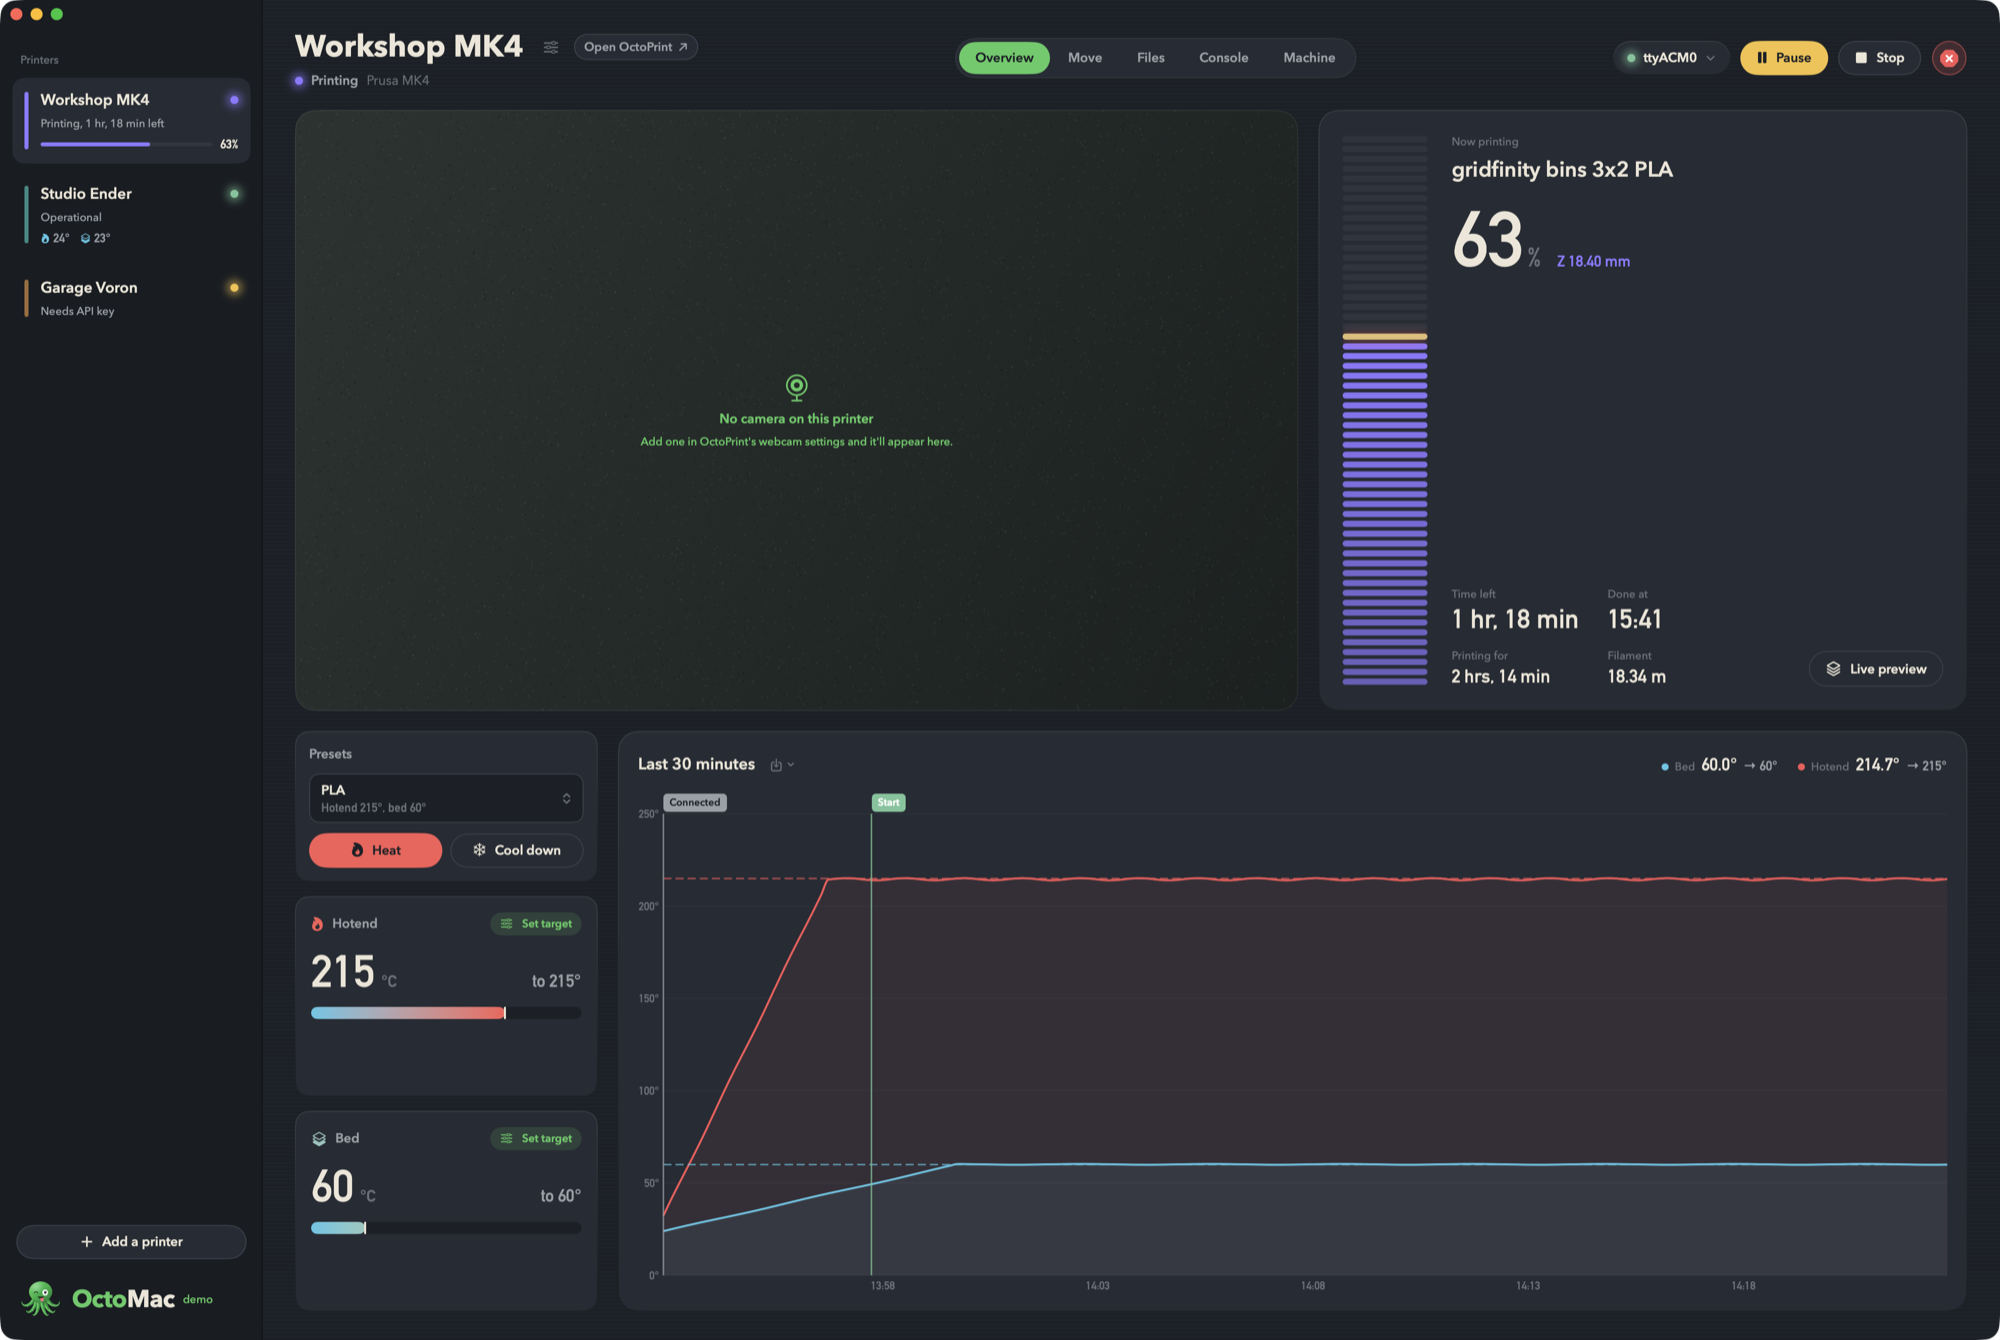
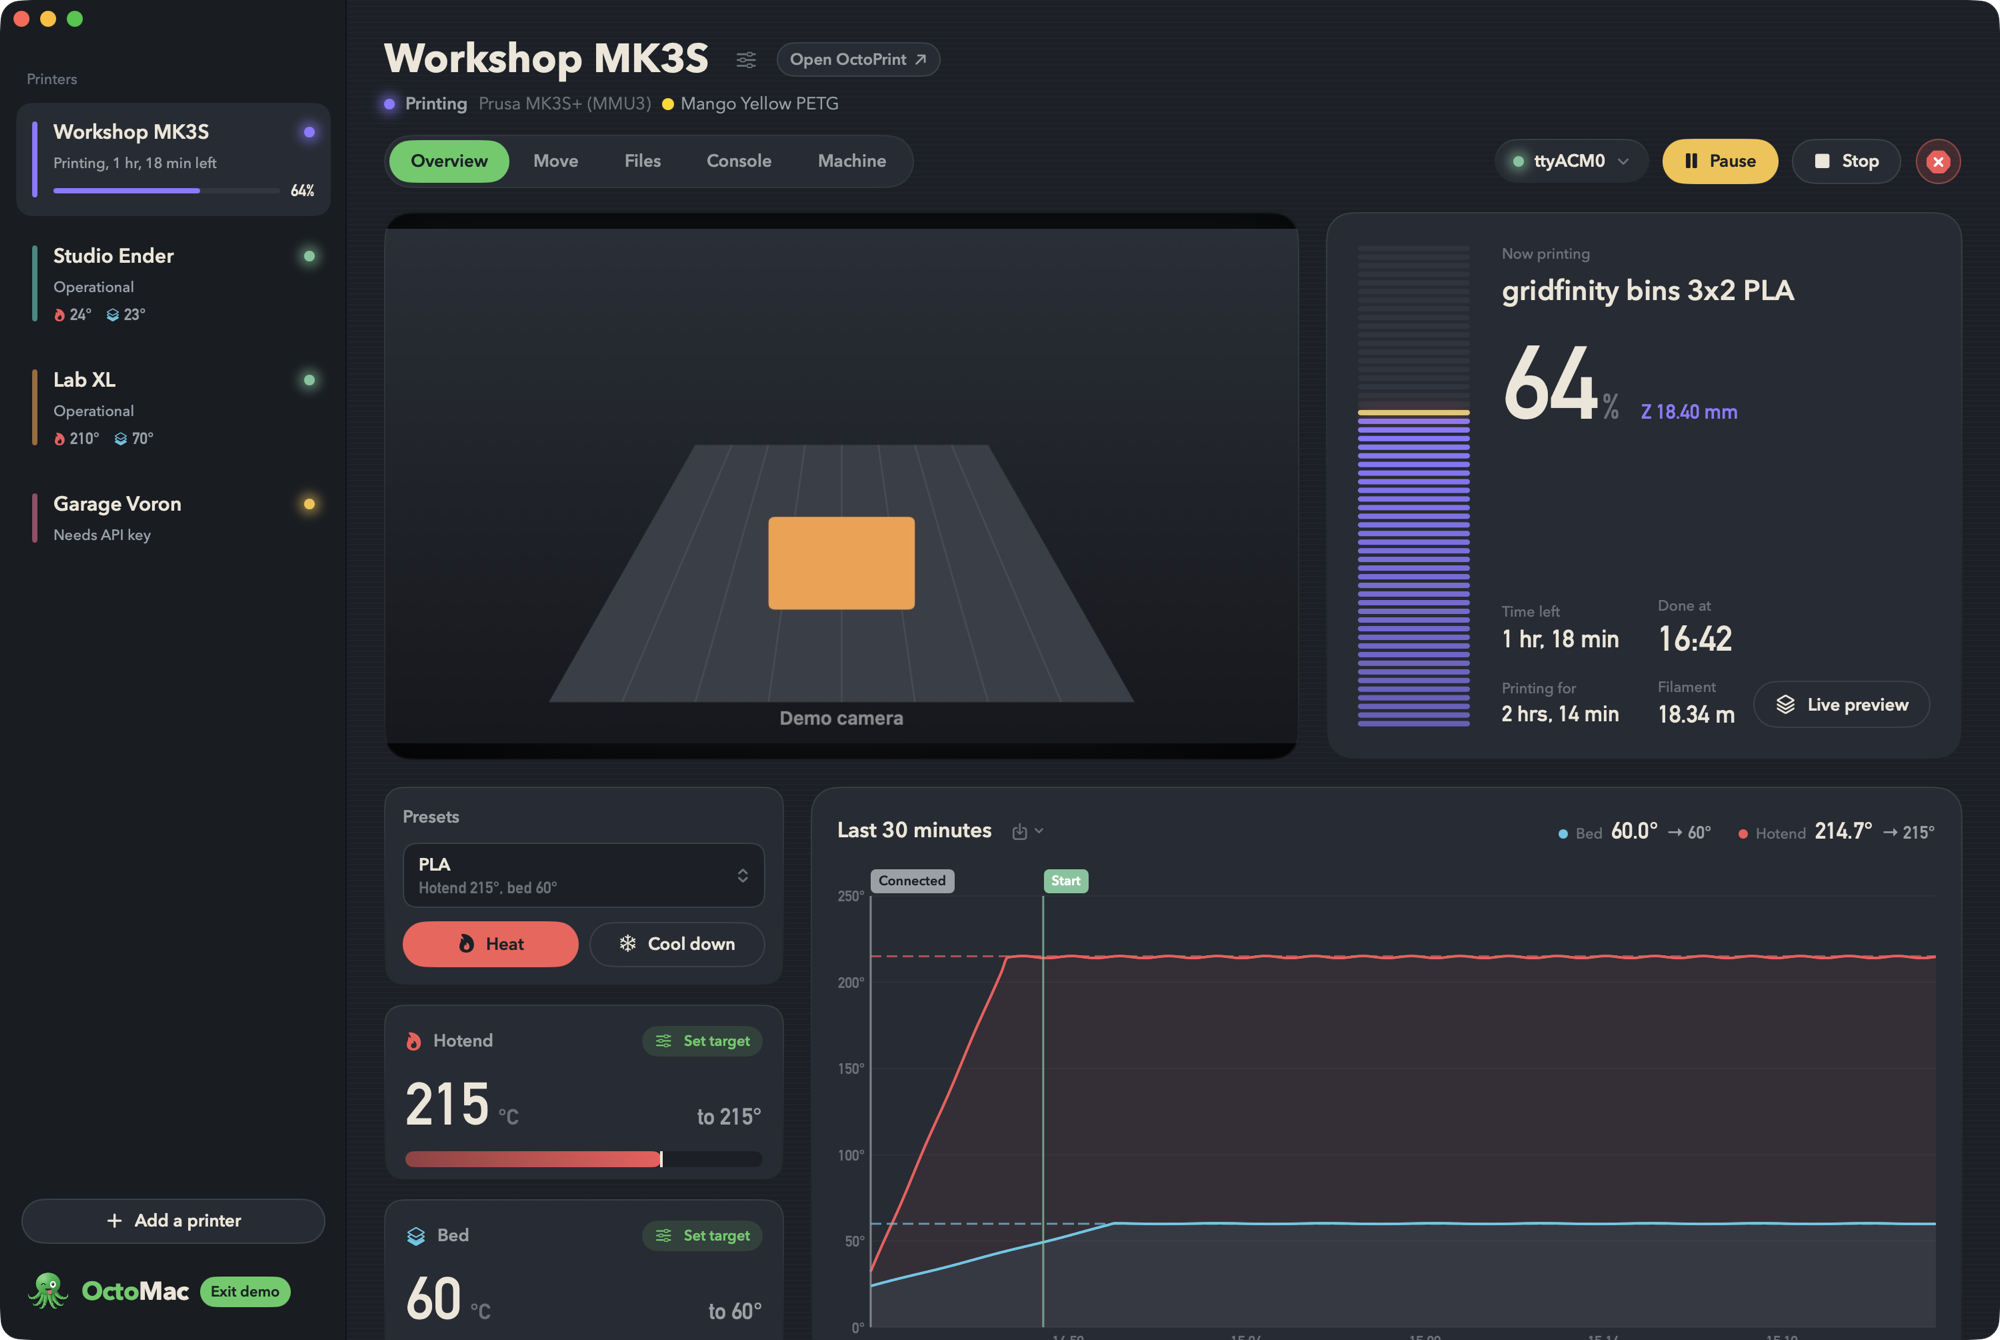
Themed preset list, MK3S demo printer, header fits narrow windows
The temperature preset dropdown is now an opaque list in the app's style
instead of the translucent system menu. The demo's printing printer is a
Prusa MK3S+ with an MMU3, matching the filament prompt, and the README
screenshots are retaken. The printer header gains a two-row layout and the
status line shortens rather than pushing the page wider than the window.

diff --git a/Sources/OctoMac/Views/OverviewPage.swift b/Sources/OctoMac/Views/OverviewPage.swift
@@ -739,6 +739,7 @@ func prettyName(_ name: String?) -> String? {
 struct PresetPanel: View {
     let session: PrinterSession
     @AppStorage private var chosen: String
+    @State private var choosing = false
 
     init(session: PrinterSession) {
         self.session = session
@@ -758,11 +759,7 @@ struct PresetPanel: View {
             if presets.isEmpty {
                 Text("No temperature presets saved in OctoPrint.").font(Typeface.caption).foregroundStyle(Palette.faint)
             } else {
-                Menu {
-                    ForEach(presets, id: \.name) { preset in
-                        Button("\(preset.name)  (\(Int(preset.extruder))° / \(Int(preset.bed))°)") { chosen = preset.name }
-                    }
-                } label: {
+                Button { choosing.toggle() } label: {
                     HStack {
                         VStack(alignment: .leading, spacing: 1) {
                             Text(selected?.name ?? "Choose a preset").font(Typeface.bodyStrong).foregroundStyle(Palette.paper)
@@ -777,12 +774,16 @@ struct PresetPanel: View {
                     .padding(.horizontal, 12)
                     .padding(.vertical, 8)
                     .background(RoundedRectangle(cornerRadius: 10, style: .continuous).fill(Palette.graphite))
-                    .overlay(RoundedRectangle(cornerRadius: 10, style: .continuous).strokeBorder(Palette.edge, lineWidth: 1))
+                    .overlay(RoundedRectangle(cornerRadius: 10, style: .continuous).strokeBorder(choosing ? Palette.accent : Palette.edge, lineWidth: 1))
                     .contentShape(Rectangle())
                 }
-                .menuStyle(.button)
                 .buttonStyle(.plain)
-                .menuIndicator(.hidden)
+                .popover(isPresented: $choosing, arrowEdge: .bottom) {
+                    PresetList(presets: presets, chosen: selected?.name) { name in
+                        chosen = name
+                        choosing = false
+                    }
+                }
             }
 
             HStack(spacing: 8) {
@@ -799,6 +800,51 @@ struct PresetPanel: View {
         .padding(14)
         .machined(radius: 14)
         .disabled(!session.isPrinterConnected)
+    }
+}
+
+/// The preset choices, drawn in the app's own style rather than as a system menu.
+struct PresetList: View {
+    let presets: [(name: String, extruder: Double, bed: Double)]
+    let chosen: String?
+    let pick: (String) -> Void
+    @State private var hovered: String?
+
+    var body: some View {
+        ScrollView {
+            VStack(spacing: 2) {
+                ForEach(presets, id: \.name) { preset in
+                    Button { pick(preset.name) } label: {
+                        HStack(spacing: 10) {
+                            Image(systemName: "checkmark")
+                                .font(.system(size: 11, weight: .bold))
+                                .foregroundStyle(Palette.accent)
+                                .opacity(preset.name == chosen ? 1 : 0)
+                            VStack(alignment: .leading, spacing: 1) {
+                                Text(preset.name).font(Typeface.bodyStrong).foregroundStyle(Palette.paper)
+                                Text("Hotend \(Int(preset.extruder))°, bed \(Int(preset.bed))°")
+                                    .font(Typeface.number(12)).foregroundStyle(Palette.faint)
+                            }
+                            Spacer(minLength: 0)
+                        }
+                        .padding(.horizontal, 10)
+                        .padding(.vertical, 7)
+                        .background(RoundedRectangle(cornerRadius: 8, style: .continuous)
+                            .fill(hovered == preset.name ? Palette.extrusionHi : .clear))
+                        .contentShape(Rectangle())
+                    }
+                    .buttonStyle(.plain)
+                    .onHover { hovered = $0 ? preset.name : (hovered == preset.name ? nil : hovered) }
+                }
+            }
+            .padding(6)
+        }
+        .scrollBounceBehavior(.basedOnSize)
+        .frame(width: 260)
+        .frame(maxHeight: 360)
+        .fixedSize(horizontal: false, vertical: true)
+        .background(Palette.extrusion)
+        .presentationBackground(Palette.extrusion)
     }
 }
 

diff --git a/Sources/OctoMac/Views/PrinterStage.swift b/Sources/OctoMac/Views/PrinterStage.swift
@@ -87,10 +87,11 @@ struct StageHeader: View {
     @Binding var confirmingEmergency: Bool
 
     var body: some View {
-        // Everything on one line when it fits; otherwise the tabs drop to a row of their own.
+        // Everything on one line when it fits; then the tabs and buttons share a second line;
+        // on the narrowest windows the tabs get a row of their own and the status line shortens.
         ViewThatFits(in: .horizontal) {
             HStack(alignment: .center, spacing: 20) {
-                title
+                title.fixedSize()
                 Spacer(minLength: 12)
                 if session.link != .needsAPIKey {
                     TabTrack(selection: $tab).fixedSize()
@@ -99,8 +100,18 @@ struct StageHeader: View {
                 }
             }
             VStack(alignment: .leading, spacing: 14) {
+                title.fixedSize()
+                if session.link != .needsAPIKey {
+                    HStack(alignment: .center, spacing: 16) {
+                        TabTrack(selection: $tab).fixedSize()
+                        Spacer(minLength: 12)
+                        actions
+                    }
+                }
+            }
+            VStack(alignment: .leading, spacing: 14) {
                 HStack(alignment: .center, spacing: 16) {
-                    title
+                    title.fixedSize(horizontal: false, vertical: true)
                     Spacer(minLength: 12)
                     if session.link != .needsAPIKey { actions }
                 }
@@ -124,6 +135,7 @@ struct StageHeader: View {
                     .font(Typeface.display)
                     .foregroundStyle(Palette.paper)
                     .lineLimit(1)
+                    .minimumScaleFactor(0.75)
                 HStack(spacing: 2) {
                     HeaderIconButton(symbol: "slider.horizontal.3", help: "Edit this printer") {
                         editor = .edit(session.instance)
@@ -136,7 +148,9 @@ struct StageHeader: View {
                 StatusLamp(color: mood.color(filament: filament), lit: mood != .offline)
                 Text(session.stateText).font(Typeface.bodyStrong).foregroundStyle(Palette.dust).lineLimit(1)
                 if let profile = session.currentProfile?.name, session.link == .online {
+                    // The first thing to give way when the window is narrow.
                     Text(profile).font(Typeface.body).foregroundStyle(Palette.faint).lineLimit(1)
+                        .layoutPriority(-1)
                 }
                 if let mmu = session.mmu, let tool = session.mmuTool,
                    let filament = mmu.filaments.first(where: { $0.index == tool }) {
@@ -148,7 +162,6 @@ struct StageHeader: View {
                 }
             }
         }
-        .fixedSize()
     }
 }
 

diff --git a/Sources/OctoMac/Model/PrinterSession.swift b/Sources/OctoMac/Model/PrinterSession.swift
@@ -697,7 +697,7 @@ extension PrinterSession {
             "current": ["state": printing ? "Printing" : "Operational", "port": "/dev/ttyACM0", "baudrate": 115200, "printerProfile": "_default"],
             "options": [
                 "ports": ["/dev/ttyACM0", "/dev/ttyUSB0"], "baudrates": [250000, 230400, 115200, 57600],
-                "printerProfiles": [["id": "_default", "name": printing ? "Prusa MK4" : "Ender 3 V3"]],
+                "printerProfiles": [["id": "_default", "name": printing ? "Prusa MK3S+ (MMU3)" : "Ender 3 V3"]],
                 "portPreference": "/dev/ttyACM0", "baudratePreference": 115200, "printerProfilePreference": "_default", "autoconnect": true,
             ],
         ]
@@ -705,8 +705,8 @@ extension PrinterSession {
 
         let profileJSON: JSONValue = [
             "id": "_default",
-            "name": .string(toolCount > 1 ? "Prusa XL 4-tool" : printing ? "Prusa MK4" : "Ender 3 V3"),
-            "model": .string(toolCount > 1 ? "Original Prusa XL" : printing ? "Original Prusa MK4" : "Creality Ender 3 V3"),
+            "name": .string(toolCount > 1 ? "Prusa XL 4-tool" : printing ? "Prusa MK3S+ (MMU3)" : "Ender 3 V3"),
+            "model": .string(toolCount > 1 ? "Original Prusa XL" : printing ? "Original Prusa MK3S+" : "Creality Ender 3 V3"),
             "heatedBed": true, "heatedChamber": .bool(toolCount > 1),
             "volume": ["width": printing ? 250 : 220, "depth": 210, "height": printing ? 220 : 250, "formFactor": "rectangular", "origin": "lowerleft"],
             "extruder": ["count": JSONValue(toolCount), "nozzleDiameter": 0.4, "sharedNozzle": false],

diff --git a/Sources/OctoMac/Model/InstanceStore.swift b/Sources/OctoMac/Model/InstanceStore.swift
@@ -124,7 +124,7 @@ final class InstanceStore {
 
     private func loadDemo() {
         let scenarios: [(String, String, PrinterSession.DemoScenario)] = [
-            ("Workshop MK4", "http://octopi-workshop.local/", .printing),
+            ("Workshop MK3S", "http://octopi-workshop.local/", .printing),
             ("Studio Ender", "http://octopi-studio.local/", .ready),
             ("Lab XL", "http://octopi-lab.local/", .toolchanger),
             ("Garage Voron", "http://voron.local/", .locked),
